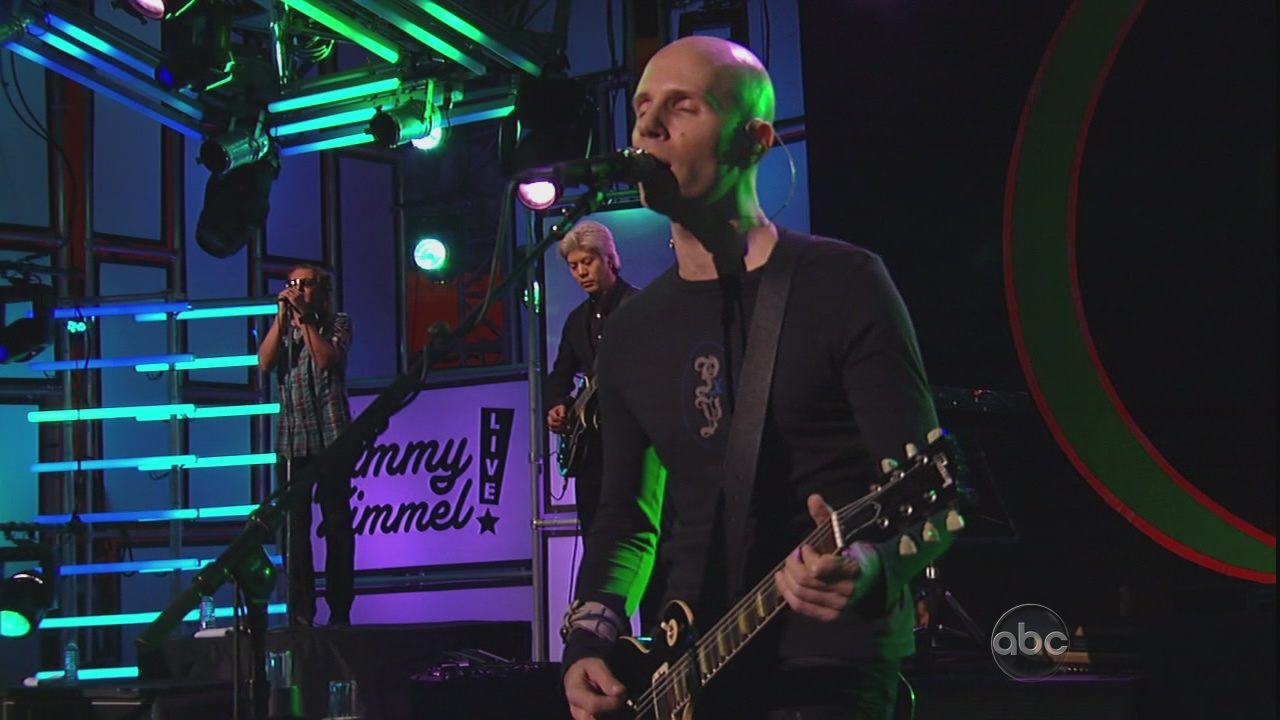
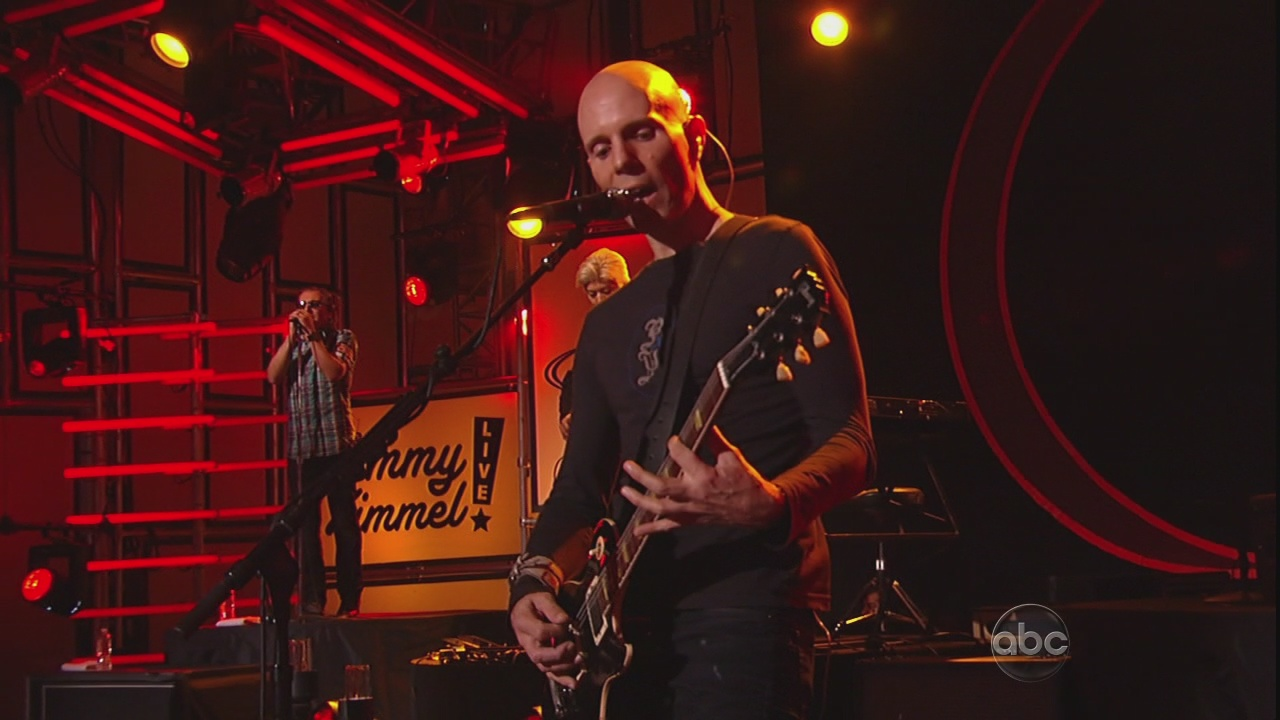
feat(images): manual screenshots for A Perfect Circle on Jimmy Kimmel 2010
Four hand-taken 1280x720 grabs replace the previous three; the show declares
16:9 and all four match it. Slot count rises 3 -> 4, so nothing needed removing.

Adds tools/add-temp-images.py, which does this import properly instead of the
ad-hoc script I had written three times. It refuses on an ambiguous or absent
show match, rejects any incoming image whose aspect disagrees with the show's
recorded AspectRatio, backs up every replaced file with its old manifest entry,
deletes surplus slots when the new count is lower, rewrites the manifest as a
contiguous run, and asserts shows.json is byte-identical with zero orphans
collection-wide before declaring success. Dry run by default.

Show matching normalises separators, because folder names use dots and
underscores as often as spaces - "jimmy kimmel" would otherwise never match
"A.Perfect.Circle.on.Jimmy.Kimmel.Live.2010.10.27". Cleanup iterates the
directory rather than using a shell glob, since an unmatched zsh glob aborts
the whole command and previously left the folder full.

diff --git a/tools/add-temp-images.py b/tools/add-temp-images.py
@@ -1,0 +1,127 @@
+#!/usr/bin/env python3
+"""Promote hand-taken screenshots from public/images/temp-images into the vault.
+
+Usage:
+    python3 tools/add-temp-images.py --show "irving plaza" --hero s257
+    python3 tools/add-temp-images.py --show "irving plaza" --hero s257 --apply
+
+The hero may be given as the full filename, or just the trailing milliseconds
+("s257" / "257") as Karl refers to them.
+
+Slot order follows CLAUDE.md: hero -> _01, remaining in ascending filename
+(= timestamp) order. Going from N images to fewer DELETES the surplus slots so
+nothing is orphaned, and the manifest is rewritten as a contiguous [1..N].
+
+Guarantees:
+  * refuses if the show match is ambiguous or absent
+  * refuses if any incoming image disagrees with the show's recorded aspect
+  * backs up every replaced image plus the old manifest entry
+  * asserts shows.json is byte-identical afterwards
+  * asserts zero orphans collection-wide, not just for this show
+  * empties temp-images without using shell globs
+"""
+from __future__ import annotations
+import argparse, hashlib, json, os, re, shutil, sys
+from pathlib import Path
+from PIL import Image
+
+REPO   = Path(__file__).resolve().parents[1]
+IMGS   = REPO/"public"/"images"
+TEMP   = IMGS/"temp-images"
+MANI   = REPO/"public"/"image-manifest.json"
+SHOWS  = REPO/"public"/"shows.json"
+BACKUP = Path.home()/"VaultShots"/"promote-backup"
+
+
+def audit(mani):
+    miss=[f"{c}_{i:02d}" for c,s in mani.items() for i in s
+          if not (IMGS/f"{c}_{i:02d}.jpg").exists()]
+    orph=[]
+    for p in IMGS.glob("*.jpg"):
+        if "_" not in p.stem: continue
+        c,i = p.stem.rsplit("_",1)
+        if not i.isdigit(): continue
+        if int(i) not in (mani.get(c) or []): orph.append(p.stem)
+    return miss, orph
+
+
+def main():
+    ap=argparse.ArgumentParser()
+    ap.add_argument("--show", required=True, help="substring of Artist + FolderName")
+    ap.add_argument("--hero", required=True, help="full filename or trailing ms, e.g. s257")
+    ap.add_argument("--artist")
+    ap.add_argument("--apply", action="store_true")
+    a=ap.parse_args()
+
+    shows=json.loads(SHOWS.read_text(encoding="utf-8"))
+    mani=json.loads(MANI.read_text(encoding="utf-8"))
+    miss,orph=audit(mani)
+    if miss or orph:
+        sys.exit(f"REFUSING: repo already has orphans ({len(miss)} missing, {len(orph)} stray)")
+
+    # Normalise separators: folder names use dots and underscores as often as
+    # spaces ("A.Perfect.Circle.on.Jimmy.Kimmel.Live"), so a literal substring
+    # search on the query silently misses them.
+    def norm(x): return re.sub(r"[^a-z0-9]+", " ", (x or "").lower()).strip()
+    q=norm(a.show)
+    cand=[s for s in shows
+          if q in norm((s.get("FolderName") or "")+" "+(s.get("Artist") or ""))
+          and (not a.artist or s.get("Artist")==a.artist)]
+    if len(cand)!=1:
+        for s in cand: print("   %s | %s" % (s.get("Artist"), s.get("FolderName")))
+        sys.exit(f"REFUSING: --show matched {len(cand)} records; narrow it (or pass --artist)")
+    show=cand[0]; ck=(show.get("ChecksumSHA1") or "").strip()
+    if not ck: sys.exit("REFUSING: record has no ChecksumSHA1")
+
+    files=sorted(p.name for p in TEMP.glob("*.jpg") if not p.name.startswith("."))
+    if not files: sys.exit("no .jpg files in temp-images")
+    hero=a.hero if a.hero in files else next(
+        (f for f in files if f.lower().rstrip(".jpg").endswith(a.hero.lower().lstrip("s"))), None)
+    if not hero: sys.exit(f"REFUSING: hero {a.hero!r} not found among {files}")
+    order=[hero]+[f for f in files if f!=hero]
+
+    m=re.search(r"(\d+):(\d+)", show.get("AspectRatio") or "")
+    declared=int(m.group(1))/int(m.group(2)) if m else None
+    print(f"  {show['Artist']} — {show.get('FolderName')}")
+    print(f"  checksum {ck}")
+    print(f"  manifest now {mani.get(ck)}  ->  {list(range(1,len(order)+1))}")
+    for i,f in enumerate(order,1):
+        with Image.open(TEMP/f) as im: w,h=im.size
+        bad = declared and abs(w/h-declared)/declared > 0.02
+        print("    _%02d  %-46s %dx%d (%.3f)%s%s"
+              % (i,f,w,h,w/h," <- hero" if i==1 else "", "  ASPECT MISMATCH" if bad else ""))
+        if bad and a.apply:
+            sys.exit(f"REFUSING: {f} is {w/h:.3f}:1 but the show declares {declared:.3f}:1")
+    old=sorted(p.name for p in IMGS.glob(f"{ck}_*.jpg"))
+    surplus=[n for n in old if int(n.rsplit("_",1)[1].split(".")[0])>len(order)]
+    if surplus: print(f"  will DELETE surplus slots: {surplus}")
+    if not a.apply:
+        print("\n  dry run — rerun with --apply"); return 0
+
+    before=hashlib.sha256(SHOWS.read_bytes()).hexdigest()
+    dest=BACKUP/re.sub(r"[^a-z0-9]+","-",(show.get("FolderName") or ck).lower()).strip("-")[:40]
+    dest.mkdir(parents=True, exist_ok=True)
+    for n in old: shutil.copy2(IMGS/n, dest/n)
+    json.dump({"checksum":ck,"old_slots":mani.get(ck),"old_files":old},
+              open(dest/"_ledger.json","w"), indent=1)
+    for i,f in enumerate(order,1): shutil.copy2(TEMP/f, IMGS/f"{ck}_{i:02d}.jpg")
+    for n in surplus: (IMGS/n).unlink()
+    mani[ck]=list(range(1,len(order)+1))
+    MANI.write_text(json.dumps(mani,indent=2,ensure_ascii=False),encoding="utf-8")
+
+    on=sorted(int(p.stem.rsplit("_",1)[1]) for p in IMGS.glob(f"{ck}_*.jpg"))
+    miss,orph=audit(mani)
+    same=hashlib.sha256(SHOWS.read_bytes()).hexdigest()==before
+    print(f"\n  disk == manifest   : {on==mani[ck]}")
+    print(f"  shows.json intact  : {same}")
+    print(f"  global orphans     : {len(miss)} missing / {len(orph)} stray")
+    if on!=mani[ck] or not same or miss or orph: sys.exit("VERIFICATION FAILED")
+    n=0
+    for p in list(TEMP.iterdir()):          # no shell globs: an unmatched one aborts the line
+        if p.is_file(): p.unlink(); n+=1
+    print(f"  backed up to {dest}\n  temp-images emptied ({n} files)")
+    return 0
+
+
+if __name__=="__main__":
+    sys.exit(main())
